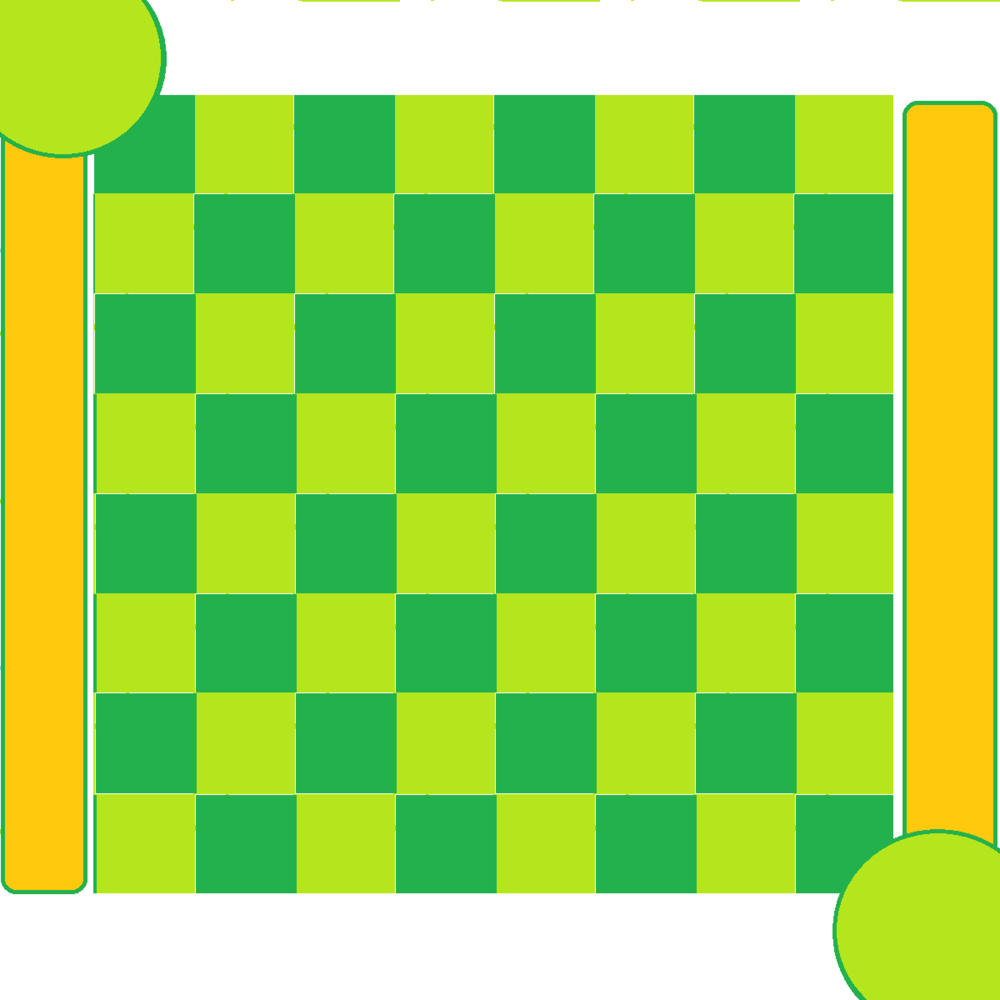
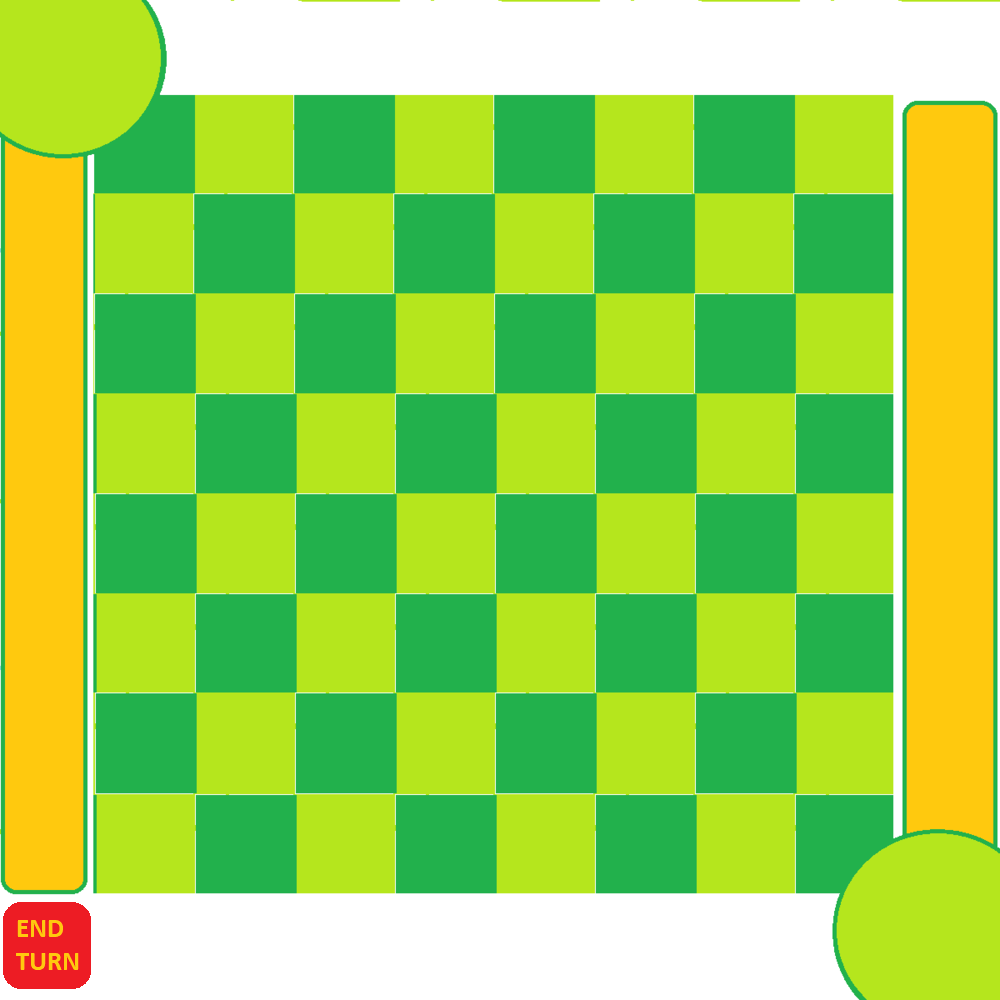
step forward the game

Changed region(s): [[0.0, 0.899, 0.093, 0.992]]

diff --git a/src/models/Game.py b/src/models/Game.py
@@ -1,14 +1,30 @@
 #!/usr/bin/python
 #-*- coding: utf-8 -*-
-from models.Board import Board,pygame
+from models.Board import Board,pygame,possibleActions
+from time import sleep
+from threading import Thread
 
+from models.Player import Player
+
+STOP_TURN = False
 class Game:
 	def __init__(self, screen_width  = 1000, screen_height = 1000):
 		self.board = Board(screen_width,screen_height)
+		self.turn_ended = False
 
+	def turn(self, player:Player):
+		print("start turn")
+		self.turn_ended = False
+		player.draw()
+		while not self.turn_ended:
+			pass
+		
 
-	def turn(self, ):
-		pass
+	def start_timer_turn(self):
+		global STOP_TURN
+		while not self.turn_ended and not STOP_TURN:
+			self.turn_ended = False
+		self.turn_ended = True
 
 
 	def start_of_game(self):
@@ -17,22 +33,58 @@ class Game:
 		self.keep_going = True # variable to exit the game
 		self.turn_time = 30
 
-		# start the main loop
-		self.main_loop()
+		print("sto partendo")
+		main_game = Thread(target=self.main_game())
+		main_game.start()
+
+		self.render_loop()
+		main_game.join()
+
+
+	def main_game(self):
+		global STOP_TURN
+
+		# shuffle decks
+		self.board.player.deck.shuffle()
+		self.board.opponent.deck.shuffle()
+		print("shuffled decks")
+		
+		# draw 5 cards each
+		for _ in range(5):
+			self.board.player.draw()
+			self.board.opponent.draw()
+		print("drew cards")
+
+		# alternate of turns
+		while self.keep_going:
+			self.board.render()
+			reuslt = self.board.handle_event()
+			if reuslt == possibleActions.END_TURN:
+				STOP_TURN=True
+			pygame.display.update()
+
+			if not self.turn:
+				STOP_TURN = False
+				self.timer = Thread(target=self.start_timer_turn())
+				self.turn = Thread(target=self.turn(self.board.player))
+				self.timer.start()
+				self.turn.start()
+				self.timer.join(30)
+				self.turn.join()
+
+
+	def check_end_game(self):
+		if self.end_game():
+			self.keep_going = False
+		print("end game")
 
 
 	def end_game(self):
-		pass
+		return not self.board.player.is_alive() or not self.board.opponent.is_alive()
 
 
-	def main_loop(self):
-		while self.keep_going:
-			self.board.render()
-
-			self.board.handle_event()
-
-			pygame.display.update()
-
+	def render_loop(self):
+		print("render loop")
 
 
 	def is_game_ended(self) -> bool:

diff --git a/src/models/Deck.py b/src/models/Deck.py
@@ -3,19 +3,32 @@
 from models.Card import Card, pygame
 from models.Minion_Card import Minion_Card
 from models.Research_Card import Research_Card
+import random
 
 class Deck:
 	def __init__(self):
-		card_image_1 = pygame.image.load("resources/spear.png")
-		card_image_2 = pygame.image.load("resources/sword.png")
-		self.list_of_cards = [Card(card_image_1 if card%2 else card_image_2) for card in range(25)]
+		knight_image = pygame.image.load("resources/knight.jpg")
+		spear_image = pygame.image.load("resources/spearman.png")
+		archer_image = pygame.image.load("resources/archer.jpg")
+		shield_image = pygame.image.load("resources/shieldman.jpg")
+		self.list_of_cards = []
+
+		for x in range(5):
+			self.list_of_cards.append(Card(knight_image))
+		for x in range(5):
+			self.list_of_cards.append(Card(spear_image))
+		for x in range(5):
+			self.list_of_cards.append(Card(archer_image))
+		for x in range(5):
+			self.list_of_cards.append(Card(shield_image))
+			
 		self.card_back = None
 
-	def is_empty(self, ):
-		pass
+	def is_empty(self) -> bool:
+		return len(self.list_of_cards)==0
 
-	def shuffle(self, ):
-		pass
+	def shuffle(self) -> None:
+		random.shuffle(self.list_of_cards)
 
-	def draw(self):
-		pass
+	def draw(self) -> Card:
+		return self.list_of_cards.pop()

diff --git a/src/models/Board.py b/src/models/Board.py
@@ -2,6 +2,7 @@
 #-*- coding: utf-8 -*-
 from models.Field import Field, pygame
 from models.Player import Player
+from enum import Enum
 
 class Board:
 	def __init__(self, screen_width  = 800, screen_height = 600):
@@ -13,6 +14,9 @@ class Board:
 		pygame.display.set_caption("Marvelous card game")
 		pygame.display.set_icon(pygame.image.load("resources/logo.jpg"))
 		self.screen = pygame.display.set_mode((screen_width,screen_height))
+
+		self.end_turn_button = pygame.Rect((0,900,100,100))
+		self.turn_end_clicked = False
 
 		self.clicked_entity = None
 		self.player = Player(1)
@@ -29,6 +33,10 @@ class Board:
 		self.opponent.render(self.screen)
 
 	def get_clicked_entity(self,pos):
+		print(pos)
+		if self.end_turn_button.contains(pygame.Rect(pos[0],pos[1],0,0)):
+			print("ho cliccato fine turno")
+			self.turn_end_clicked = True
 		for field in self.fields:
 			for place in field.minion_slots:
 				if place and place.is_clicked(pos) and place.entity:
@@ -74,6 +82,12 @@ class Board:
 								self.old_place.remove_entity()
 							break
 					self.clicked_entity.click = False
+				elif self.turn_end_clicked:
+					return True
+					self.turn_end_clicked = False
 
 
 
+class possibleActions(Enum):
+	END_TURN = 1
+	ENTITY_MOVED = 2

diff --git a/src/models/Player.py b/src/models/Player.py
@@ -10,23 +10,24 @@ class Player:
 		self.hero = Hero(side)
 		self.health = 20
 		self.vault = 0
-		card_image_1 = pygame.image.load("resources/spear.png")
-		card_image_2 = pygame.image.load("resources/sword.png")
-		self.hand = [Card(card_image_1 if x%2 else card_image_2) for x in range(5)]
+		self.hand = []
 		self.side = side
 
 	def die(self, ):
 		pass
 
 	def start_of_turn(self):
-		self.deck.draw()
+		self.hand.append(self.deck.draw())
 		self.vault += 3
 
 	def end_of_turn(self, ):
 		pass
 
-	def is_alive(self, ):
-		pass
+	def is_alive(self) -> bool:
+		return self.health == 0
+
+	def draw(self) -> None:
+		self.hand.append(self.deck.draw())
 
 	def render(self, board):
 		self.hero.render(board)
